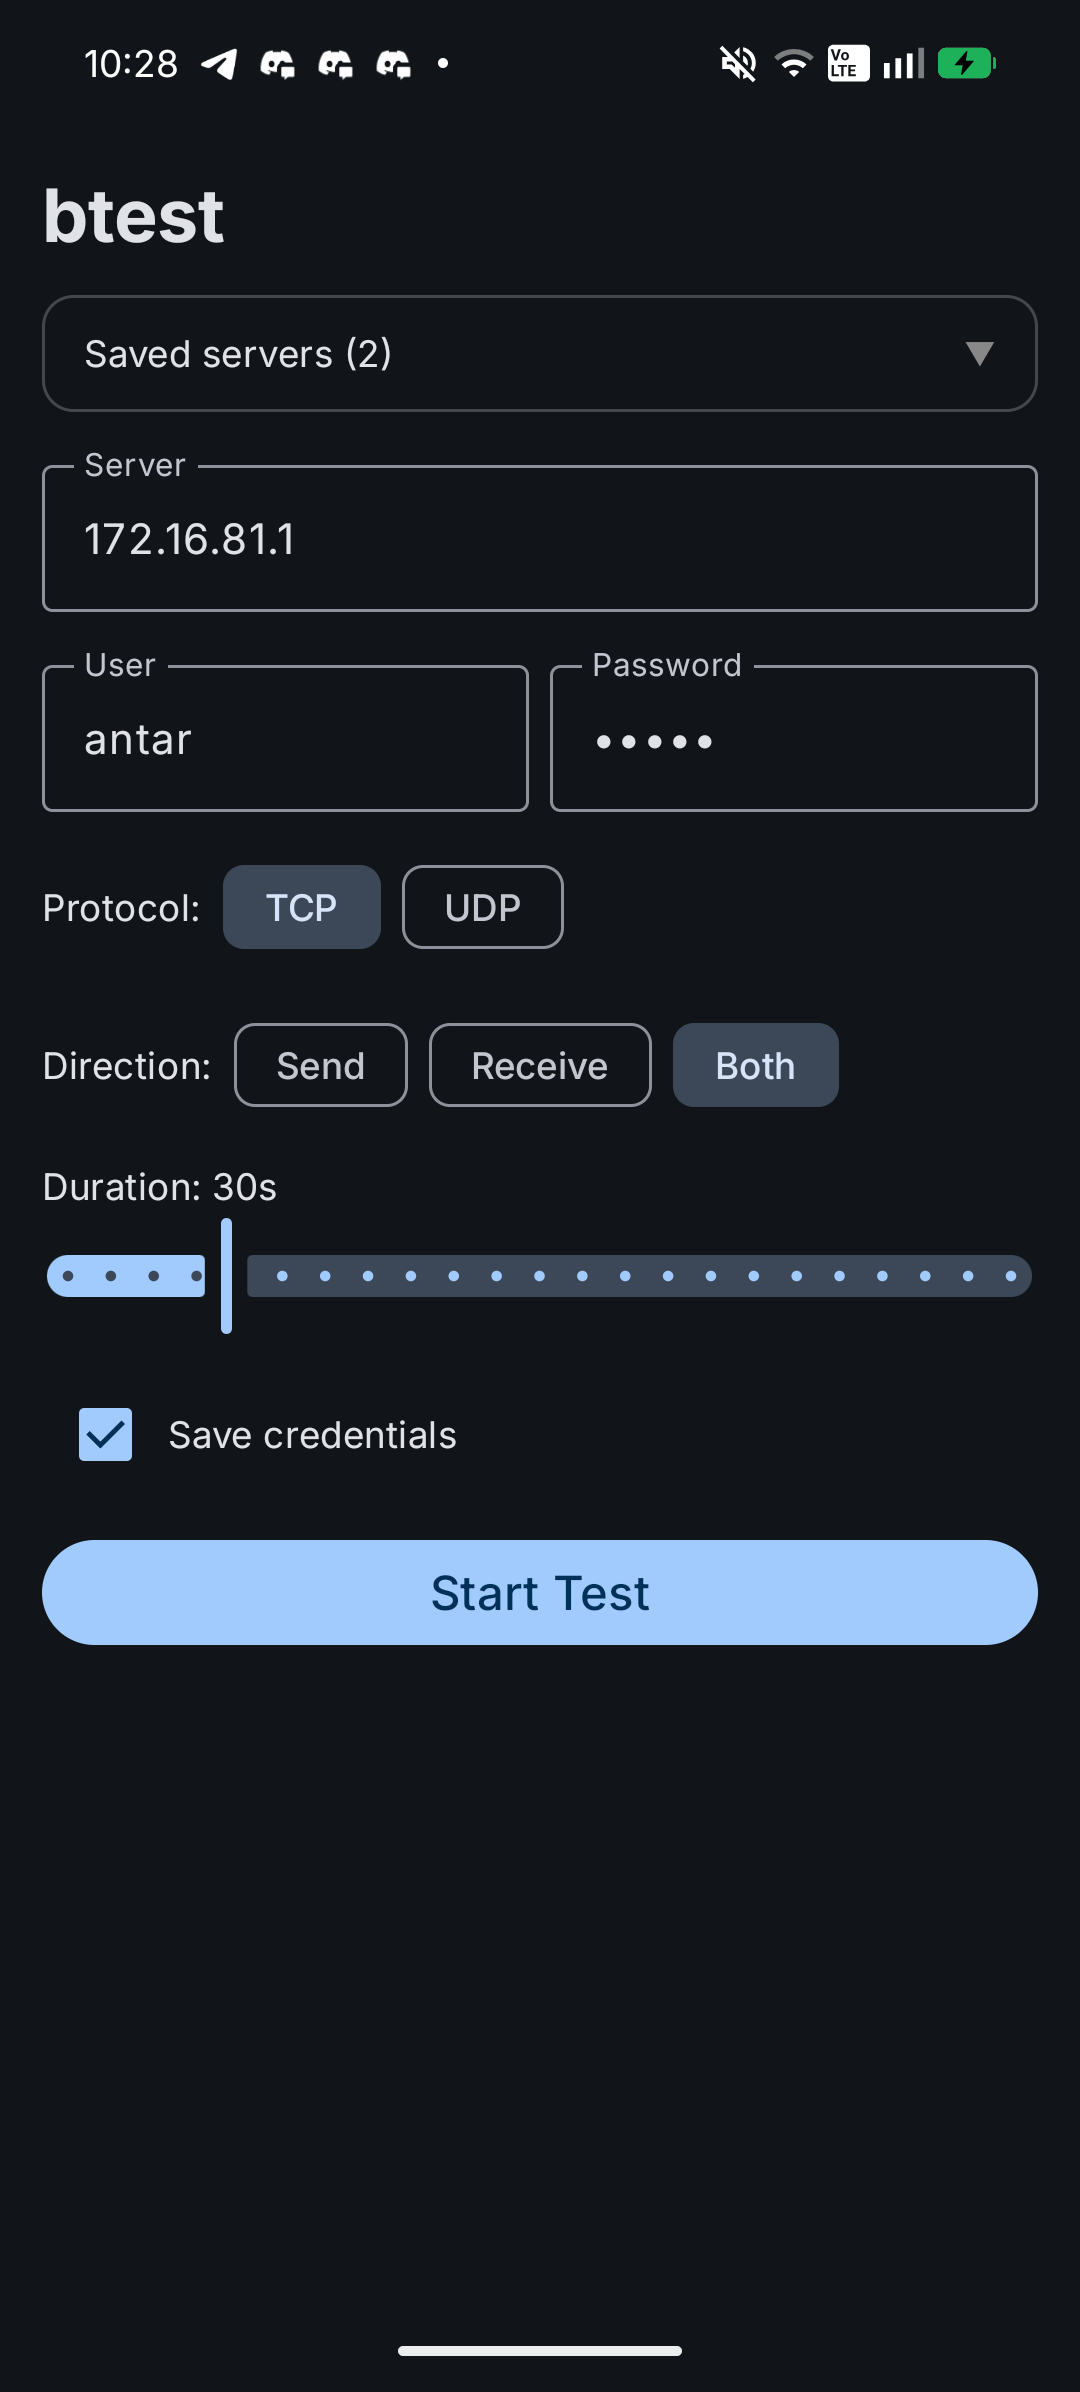
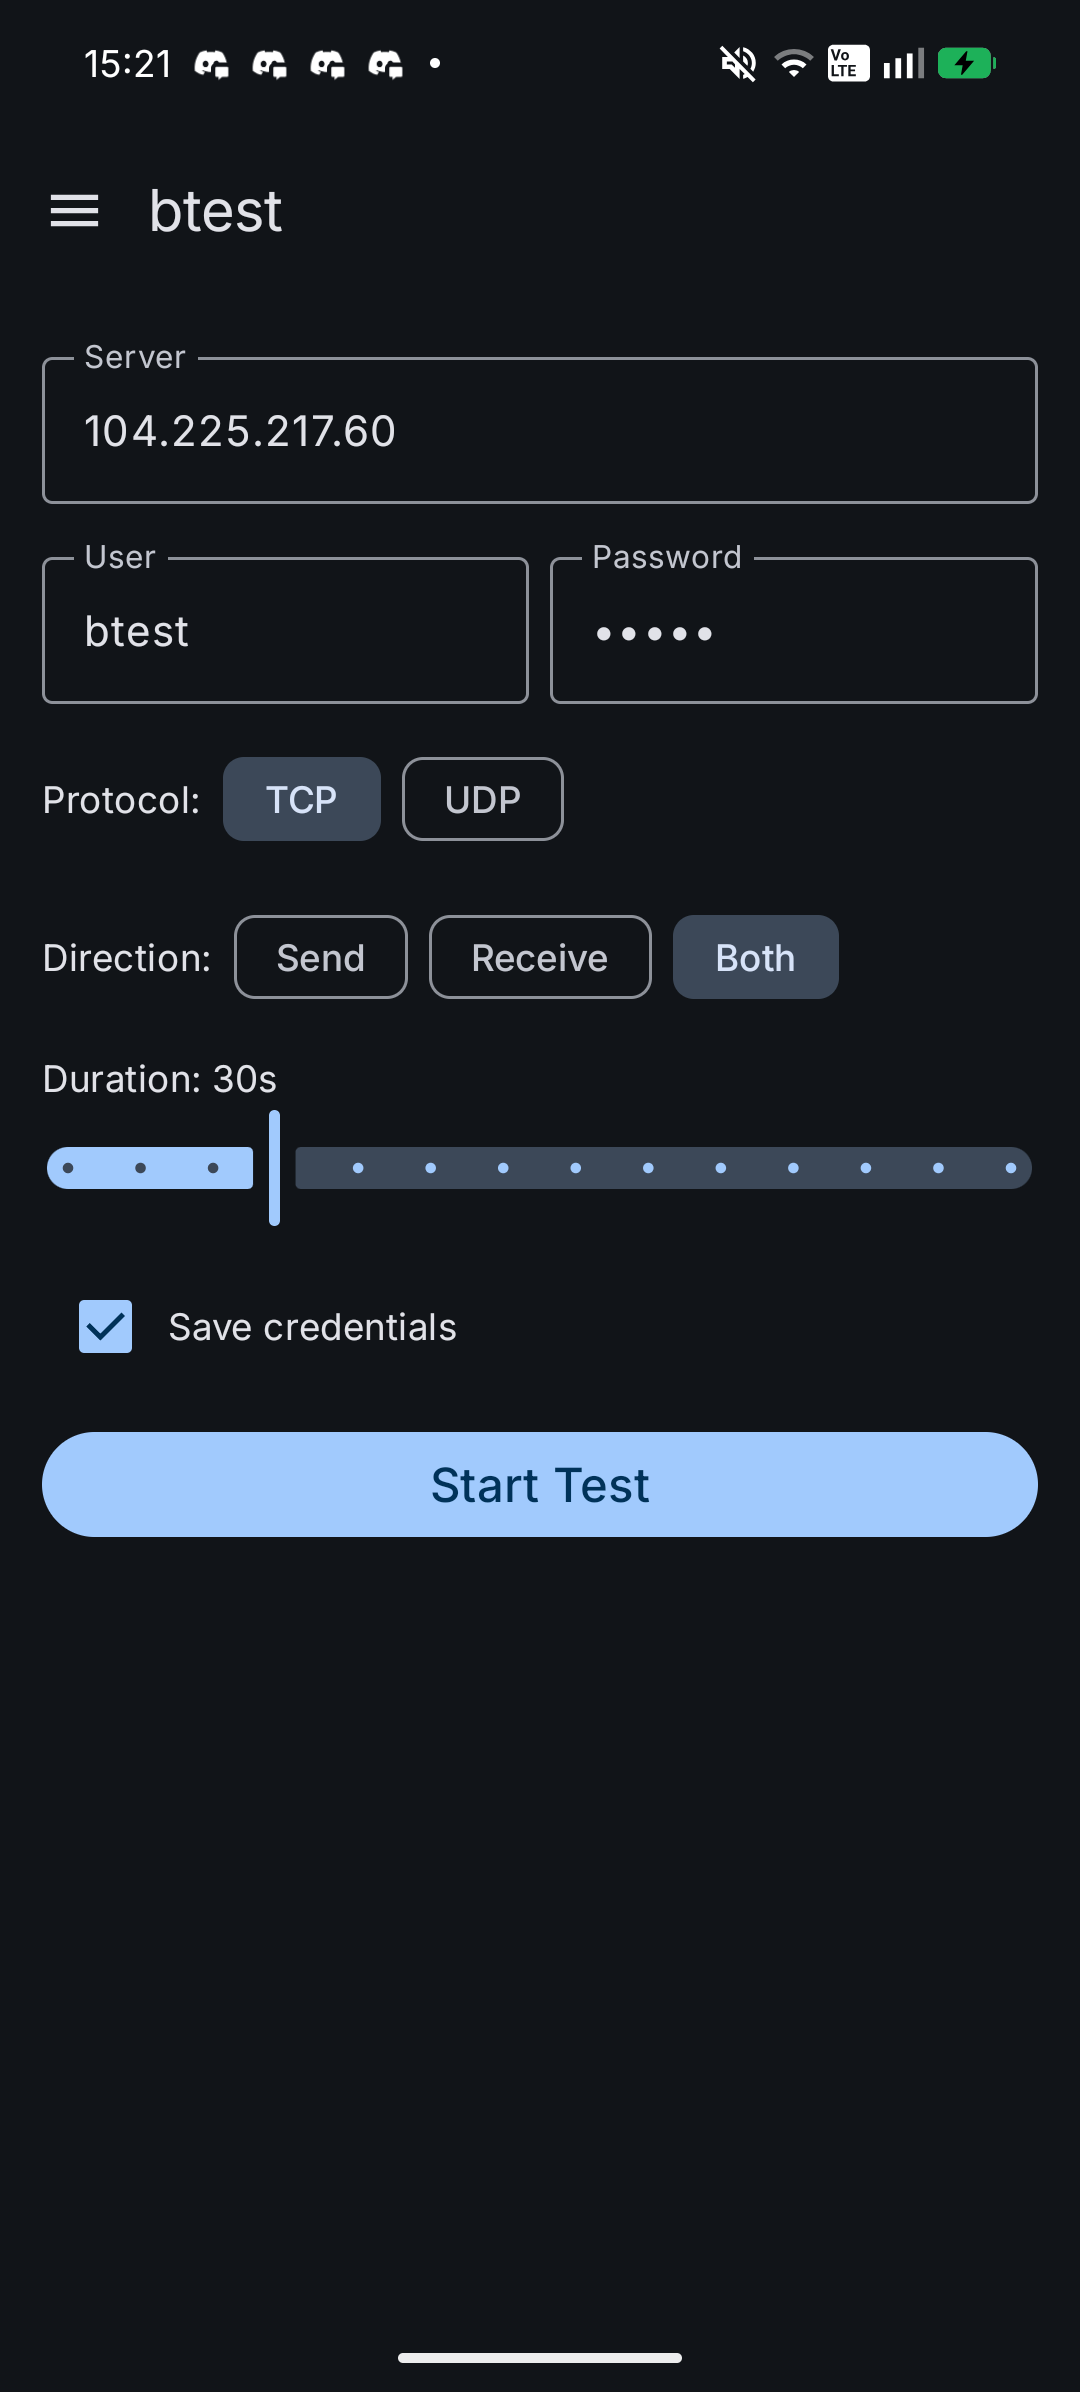
Add release build, updated screenshots, and new history/dashboard views
- Release signing config with R8 minification (18MB -> 3MB)
- Updated screenshots: config, running, results, history, detail, dashboard
- Version bump to 0.03 (versionCode 3)
- Proguard rules for Room entities and new ViewModels

diff --git a/README.md b/README.md
@@ -8,6 +8,10 @@ MikroTik Bandwidth Test (btest) client for Android — native Material3 UI wrapp
 |--------|---------|---------|
 | ![config](docs/screenshots/config.png) | ![running](docs/screenshots/running.png) | ![results](docs/screenshots/results.png) |
 
+| History | Detail | Dashboard |
+|---------|--------|-----------|
+| ![history](docs/screenshots/history.png) | ![detail](docs/screenshots/detail.png) | ![dashboard](docs/screenshots/dashboard.png) |
+
 ## Features
 
 - TCP and UDP bandwidth testing against MikroTik-compatible servers
